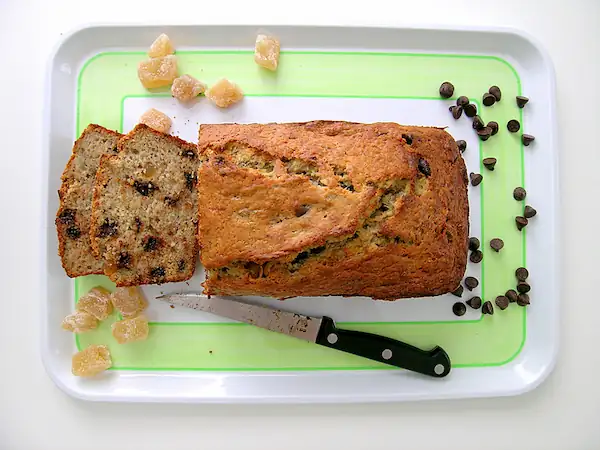
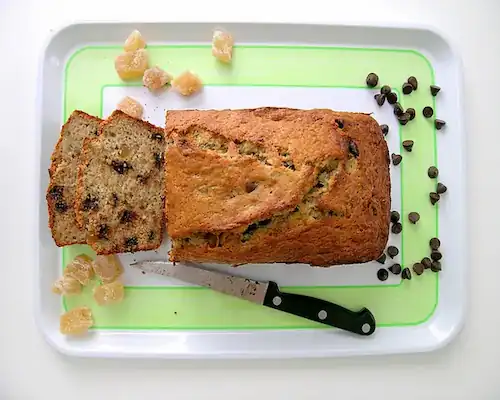
Fix some issue and adding new content

diff --git a/recipes/recipe3.html b/recipes/recipe3.html
@@ -3,7 +3,7 @@
 <head>
     <meta charset="UTF-8">
     <meta name="viewport" content="width=device-width, initial-scale=1.0">
-    <title>Ultimate chocolate cake | Recipe book</title>
+    <title>Banana bread | Recipe book</title>
     <link rel="preconnect" href="https://fonts.googleapis.com">
     <link rel="preconnect" href="https://fonts.gstatic.com" crossorigin>
     <link href="https://fonts.googleapis.com/css2?family=Lora:ital,wght@0,400..700;1,400..700&family=Playfair+Display:ital,wght@0,400..900;1,400..900&display=swap" rel="stylesheet">
@@ -17,10 +17,10 @@
         </a>
       </header>
       <main>
-      <h1>Ultimate chocolate cake</h1>
+      <h1>Banana bread</h1>
       <div class="container">
         <section class="recipe-info">
-          <img class="info-image" src="../images/recipe2.webp" alt="Vintage cookie" width="600" height="400">
+          <img class="info-image" src="../images/recipe3.webp" alt="Vintage cookie" width="600" height="400">
           <dl class="info-list">
             <div class="info-item">
               <dt>
@@ -37,7 +37,7 @@
                 <span class="label">Cooking time:</span>
               </dt>
               <dd>
-                <span class="value">1 hr - 1 hr 30 min</span>
+                <span class="value">50 min</span>
               </dd>
             </div>
            <div class="info-item">
@@ -49,7 +49,7 @@
               <span class="value">
                 <i class="fa-solid fa-star" style="color: #FFD43B;"></i>
                 <i class="fa-solid fa-star" style="color: #FFD43B;"></i>
-                <i class="fa-solid fa-star" style="color: #FFD43B;"></i>
+                <i class="fa-regular fa-star" style="color: #FFD43B;"></i>
                 <i class="fa-regular fa-star" style="color: #FFD43B;"></i>
                 <i class="fa-regular fa-star" style="color: #FFD43B;"></i>
               </span>
@@ -61,40 +61,32 @@
           <h2 class="details-header" id="description">
             <a href="#description">Description</a>
           </h2>
-          <p>Indulge yourself with this ultimate chocolate ganache cake recipe that is beautifully moist, rich and fudgy. Perfect for a celebration or an afternoon tea</p>
+          <p>A cross between banana bread and a drizzle cake, this easy banana loaf recipe is a quick bake that can be frozen. It's great for using up overripe bananas, too</p>
           <h2 class="details-header" id="ingredients">
             <a href="#ingredients">Ingredients</a>
           </h2>
           <ul class="ingredients-list">
-              <li>200g dark chocolate (about 60% cocoa solids), chopped</li>
-              <li>200g butter, cubed</li>
-              <li>1 tbsp instant coffee granules</li>
-              <li>85g self-raising flour</li>
-              <li>85g plain flour</li>
-              <li>¼ tsp bicarbonate of soda</li>
-              <li>200g light muscovado sugar</li>
-              <li>200g golden caster sugar</li>
-              <li>25g cocoa powder</li>
-              <li>3 medium eggs</li>
-              <li>75ml buttermilk</li>
-              <li>50g grated chocolate or 100g curls, to decorate</li>
+              <li>140g butter, softened, plus extra for the tin</li>
+              <li>140g caster sugar</li>
+              <li>2 large eggs, beaten</li>
+              <li>140g self-raising flour</li>
+              <li>1 tsp baking powder</li>
+              <li>2 very ripe bananas, mashed</li>
+              <li>50g icing sugar</li>
+              <li>handful dried banana chips, for decoration</li>
           </ul>
           <h2 class="details-header" id="instructions">
             <a href="#instructions">Instructions</a>
           </h2>
           <ol class="instructions-list">
-            <li>Preheat the oven to 160C/fan 140C/gas 3. Butter and line a 20cm round cake tin.</li>
-            <li>Melt 200g chopped dark chocolate and 200g butter in a medium pan.</li>
-            <li>Dissolve 1 tbsp instant coffee granules in 125ml cold water and add to the pan.</li>
-            <li>Warm over low heat until melted, or microwave for about 5 minutes, stirring halfway.</li>
-            <li>Mix 85g self-raising flour, 85g plain flour, ¼ tsp bicarbonate of soda, 200g light muscovado sugar, 200g golden caster sugar, and 25g cocoa powder.</li>
-            <li>Beat 3 medium eggs with 75ml buttermilk.</li>
-            <li>Combine the melted chocolate mixture, egg mixture, and flour mixture until smooth and runny.</li>
-            <li>Pour into the tin and bake for 1hr 25-1hr 30 mins. A skewer should come out clean from the center.</li>
-            <li>Cool in the tin, then turn out onto a wire rack. Once cold, cut the cake horizontally into three layers.</li>
-            <li>For the ganache, heat 300ml double cream with 2 tbsp golden caster sugar until almost boiling. Pour over 200g chopped dark chocolate and stir until smooth.</li>
-            <li>Cool the ganache until slightly thicker but still pourable. Sandwich the cake layers with a bit of ganache, then pour the rest over the cake, smoothing with a palette knife.</li>
-            <li>Decorate with 50g grated chocolate or 100g chocolate curls. The cake stays moist for 3-4 days.</li>
+            <li>Heat oven to 180C/160C fan/gas 4.</li>
+            <li>Butter a 2lb loaf tin and line the base and sides with baking parchment.</li>
+            <li>Cream 140g softened butter and 140g caster sugar until light and fluffy, then slowly add 2 beaten large eggs with a little of the 140g flour.</li>
+            <li>Fold in the remaining flour, 1 tsp baking powder and 2 mashed bananas.</li>
+            <li>Pour the mixture into the prepared tin and bake for about 50 mins, or until cooked through. Check the loaf at 5-min intervals from around 30-40 mins in the oven by testing it with a skewer (it should be able to be inserted and removed cleanly), as the time may vary depending on the shape of your loaf tin.</li>
+            <li>Cool in the tin for 10 mins, then remove to a wire rack.</li>
+            <li>Mix 50g icing sugar with 2-3 tsp water to make a runny icing.</li>
+            <li>Drizzle the icing across the top of the cake and decorate with a handful of banana chips.</li>
         </ol>
         </section>
       </div>

diff --git a/index.html b/index.html
@@ -67,11 +67,11 @@
      <section class="recipe-card">
       <a href="./recipes/recipe1.html">
        <div class="image-container">
-        <img class="recipe-image" src="./images/recipe1.webp" alt="Chocolate chip banana bread" width="600" height="400">
+        <img class="recipe-image" src="./images/recipe1_card.webp" alt="Chocolate chip banana bread" width="600" height="400">
        </div>
        <div class="text-container">
         <h2 class="recipe-header">Chocolate chip banana bread</h2>
-        <p class="recipe-description">Rustle up a moreish chocolate chip banana bread – it’s a great way to use up ripe bananas that are lingering in the fruit bowl.</p>
+        <p class="recipe-description">Rustle up a moreish chocolate chip banana bread – it’s a great way to use up ripe bananas that are lingering in the fruit bowl</p>
         <dl class="info-list">
          <div class="info-item">
           <dt>
@@ -113,7 +113,7 @@
      <section class="recipe-card">
       <a href="./recipes/recipe2.html">
        <div class="image-container">
-        <img class="recipe-image" src="./images/recipe2.webp" alt="Vintage cookie" width="500" height="400">
+        <img class="recipe-image" src="./images/recipe2.webp" alt="Chocolate cake" width="500" height="400">
        </div>
        <div class="text-container">
         <h2 class="recipe-header">Ultimate chocolate cake</h2>
@@ -157,13 +157,13 @@
       </a>
      </section>
      <section class="recipe-card">
-      <a href="./recipes/recipe.html">
+      <a href="./recipes/recipe3.html">
        <div class="image-container">
-        <img class="recipe-image" src="./images/recipe1.jpg" alt="Vintage cookie" width="500" height="400">
+        <img class="recipe-image" src="./images/recipe3_card3.webp" alt="Banana bread" width="500" height="400">
        </div>
        <div class="text-container">
-        <h2 class="recipe-header">Vintage chocolate chip cookies</h2>
-        <p class="recipe-description">An easy chocolate chip cookie recipe for soft biscuits with a squidgy middle that will impress family and friends. Make plenty as they're sure to be a hit</p>
+        <h2 class="recipe-header">Banana bread</h2>
+        <p class="recipe-description">A cross between banana bread and a drizzle cake, this easy banana loaf recipe is a quick bake that can be frozen. It's great for using up overripe bananas, too</p>
         <dl class="info-list">
          <div class="info-item">
           <dt>
@@ -171,7 +171,7 @@
            <span class="label">Servings:</span>
           </dt>
           <dd>
-           <span class="value">30</span>
+           <span class="value">1</span>
           </dd>
          </div>
          <div class="info-item">
@@ -180,7 +180,7 @@
            <span class="label">Cooking time:</span>
           </dt>
           <dd>
-           <span class="value">30 minutes</span>
+           <span class="value">50 min</span>
           </dd>
          </div>
          <div class="info-item">

diff --git a/style.css b/style.css
@@ -257,6 +257,7 @@ h1 {
 
 .details-header {
 	border-bottom: 1px solid black;
+	margin: 16px 0;
 }
 .details-header:hover {
 	text-decoration: #000 underline;
